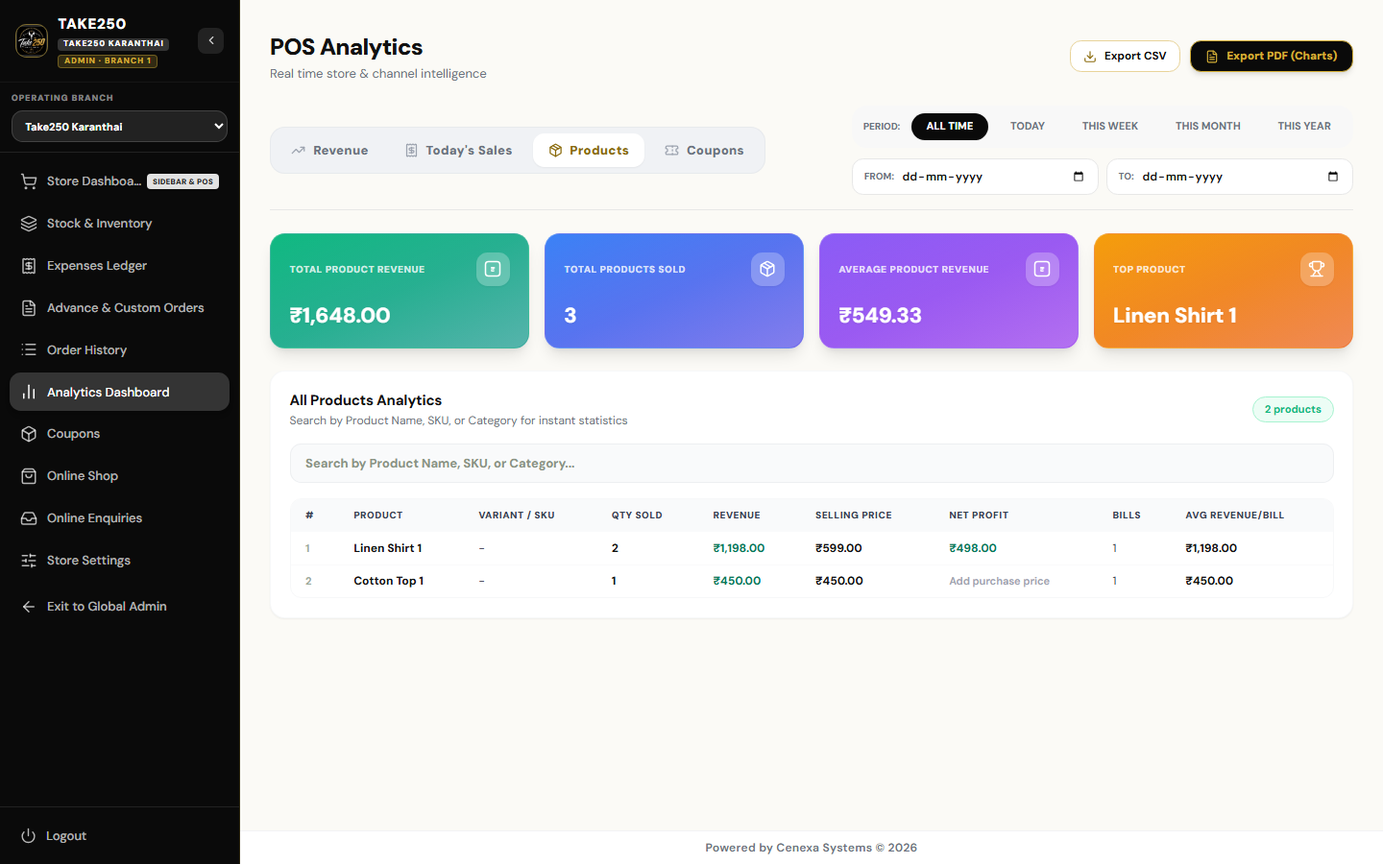
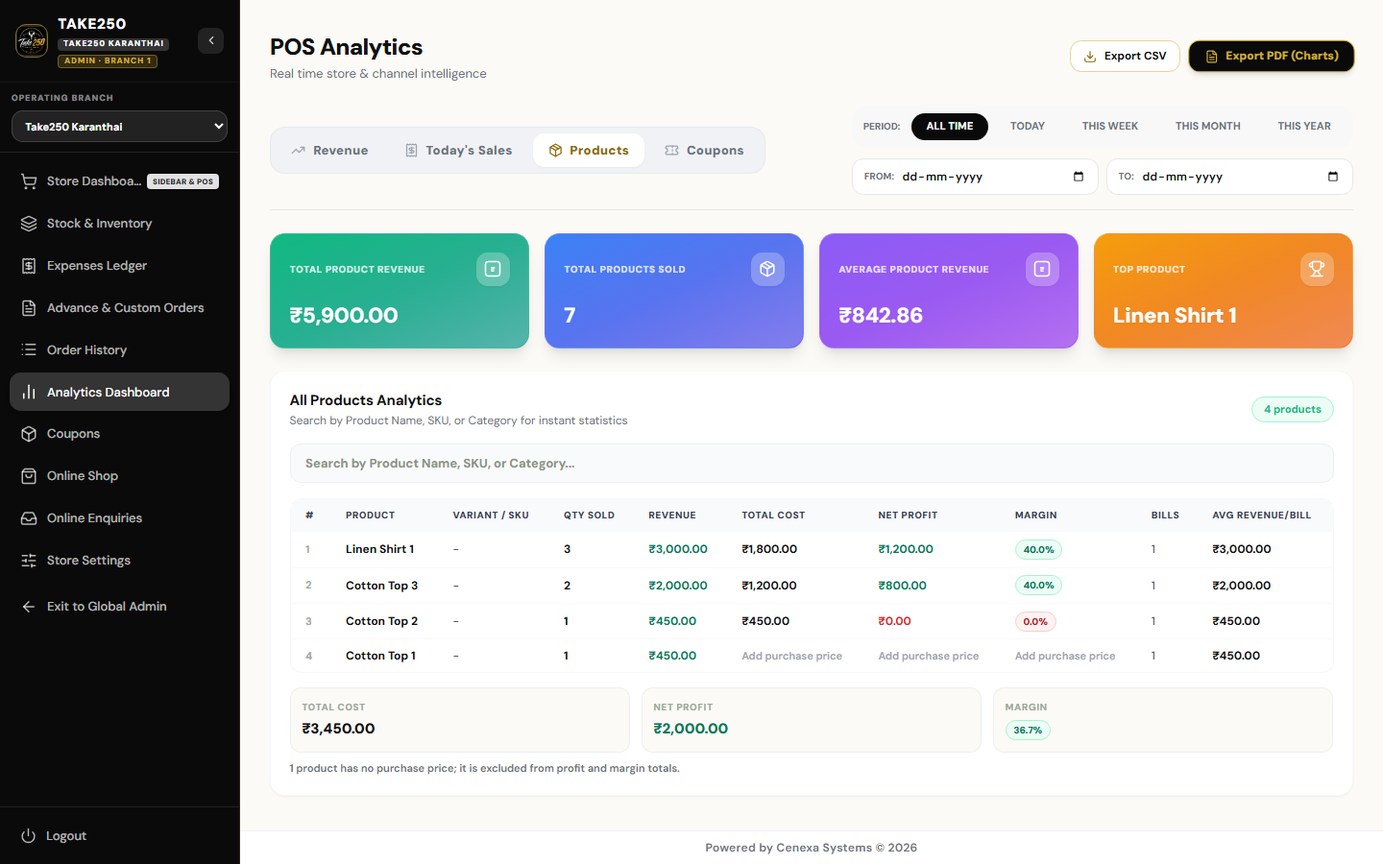
analytics: product cost, net profit and margin
- Analytics > Products: Product | Variant/SKU | Qty Sold | Revenue |
  Total Cost | Net Profit | Margin | Bills | Avg Revenue/Bill (Selling
  Price replaced by Total Cost), desktop table and mobile cards; Margin
  as a badge (green > 0, red <= 0, "-" without revenue).
- One calculation (src/lib/productProfit.ts) for the table, cards,
  totals, CSV and PDF: Total Cost = purchase price x units sold net of
  returns (per size line: the size's purchase price, else the
  product's); Net Profit = Revenue - Total Cost; Margin one decimal.
- No purchase price (null / 0, or any sold unit without one): "Add
  purchase price" for Total Cost, Net Profit and Margin; never revenue as
  profit or 0 as cost; left out of the totals with the note.
- Totals under the table; CSV gets Total Cost / Net Profit / Margin,
  totals and the note; the PDF product table gets Profit / Margin and the
  totals line.
- Cost on bill lines (unit_cost) is now Admin only (was Admin + Manager).
- Tests: 600 / 1000 / 3 -> 1800 / 1200 / 40.0%, missing and partly priced
  products, 0% when purchase = selling price, size cost over product
  cost, net of a real return, totals and note, CSV, roles.

diff --git a/src/pages/Dashboard.tsx b/src/pages/Dashboard.tsx
@@ -79,6 +79,7 @@ import { useNavigationStore } from '../store/navigationStore'
 import { useHardwareBarcodeScanner } from '../hooks/useHardwareBarcodeScanner'
 import { BarcodeRedirectDialog } from '../components/pos/BarcodeRedirectDialog'
 import { exportAnalyticsToCSV, exportAnalyticsToPDF } from '../services/analyticsExport'
+import { ADD_PURCHASE_PRICE, formatMargin, missingCostNote, productProfit, profitTotals } from '../lib/productProfit'
 import { BRAND_EN, BRAND_LOGO, BRAND_ICON } from '../lib/brand'
 import { branchName, branchShortLabel, posAccent, useBranchLogo } from '../lib/branchTheme'
 import { getPeriodRange, toLocalDateKey } from '../lib/dateRanges'
@@ -112,17 +113,12 @@ type DashboardOrder = {
   paid_by_mode?: Record<string, number>; refunds_by_mode?: Record<string, number>
 }
 type DashboardOrderItem = { order_id: string; product_name: string; category?: string; quantity: number; line_total: number; is_manual?: boolean | null; unit_cost?: number | null }
-/** Product-wise net profit: revenue - purchase price x units sold. No purchase price -> "Add purchase price";
- *  some sales without one -> the profit of the priced part, marked. Bills keep no cost snapshot: the current price is used. */
-function ProductProfit({ p }: { p: { qty: number; revenue: number; cost: number; costedQty: number; costedRevenue: number } }) {
-  if (p.costedQty <= 0) return <span className="text-[11px] font-semibold text-[#9CA3AF]" title="Set a purchase price in Stock & Inventory to see the profit">Add purchase price</span>
-  const profit = Math.round((p.costedRevenue - p.cost) * 100) / 100
-  const partial = p.costedQty < p.qty
-  return (
-    <span className={`font-bold ${profit >= 0 ? 'text-emerald-700' : 'text-red-600'}`} title={partial ? `Only ${Math.round(p.costedQty)} of ${Math.round(p.qty)} sold have a purchase price` : undefined}>
-      {formatCurrency(profit)}{partial ? ' *' : ''}
-    </span>
-  )
+/** Analytics > Products: "Add purchase price" (muted) where a product has no purchase price, for Total Cost, Net Profit and Margin. */
+const MissingCost = () => <span className="text-[11px] font-semibold text-[#9CA3AF]" title="Set a purchase price in Stock & Inventory to see cost, profit and margin" data-testid="product-missing-cost">{ADD_PURCHASE_PRICE}</span>
+/** Margin badge in the existing badge style: green when positive, red when zero or negative, "-" without revenue. */
+function MarginBadge({ margin }: { margin: number | null }) {
+  if (margin === null) return <span className="text-[#9CA3AF]">-</span>
+  return <span className={`inline-block rounded-full border px-2 py-0.5 text-[10px] font-black ${margin > 0 ? 'bg-emerald-50 text-emerald-700 border-emerald-200' : 'bg-red-50 text-red-700 border-red-200'}`} data-testid="product-margin-badge">{formatMargin(margin)}</span>
 }
 
 /** Order History discount cell: one amount for a coupon-only bill (as before); coupon and manual on their own lines
@@ -740,7 +736,7 @@ export default function Dashboard() {
         })))
 
     // product-wise profit: cost = purchase price x units sold, over the lines whose product has a purchase price
-    const productMap    = new Map<string, { name: string; variant: string; qty: number; revenue: number; billCount: number; cost: number; costedQty: number; costedRevenue: number }>()
+    const productMap    = new Map<string, { name: string; variant: string; qty: number; revenue: number; billCount: number; cost: number; costedQty: number }>()
     const productOrders = new Map<string, Set<string>>()
     const categoryMap   = new Map<string, { name: string; qty: number; revenue: number }>()
     const prodCatLookup = new Map(products.map(p => [String(p.name || '').trim().toLowerCase(), p.category || 'Uncategorized']))
@@ -759,9 +755,10 @@ export default function Dashboard() {
       const mainName   = dashIdx > 0 ? rawKey.slice(0, dashIdx) : rawKey
       const variantName = dashIdx > 0 ? rawKey.slice(dashIdx + 3) : ''
 
-      const pc = productMap.get(rawKey) || { name: mainName, variant: variantName, qty: 0, revenue: 0, billCount: 0, cost: 0, costedQty: 0, costedRevenue: 0 }
+      const pc = productMap.get(rawKey) || { name: mainName, variant: variantName, qty: 0, revenue: 0, billCount: 0, cost: 0, costedQty: 0 }
       pc.qty += qty; pc.revenue += rev
-      if (unitCost !== null && unitCost !== undefined) { pc.cost += unitCost * qty; pc.costedQty += qty; pc.costedRevenue += rev }
+      // per line: this line's size's purchase price (else the product's), on the units left after returns
+      if (unitCost !== null && unitCost !== undefined) { pc.cost += unitCost * qty; pc.costedQty += qty }
       productMap.set(rawKey, pc)
 
       if (!productOrders.has(rawKey)) productOrders.set(rawKey, new Set())
@@ -778,7 +775,9 @@ export default function Dashboard() {
       const p = productMap.get(key); if (p) { p.billCount = orderSet.size; productMap.set(key, p) }
     }
 
-    const topProducts   = Array.from(productMap.values()).sort((a, b) => b.qty - a.qty)
+    // cost / net profit / margin from the ONE shared calculation (table, cards, totals, CSV and PDF read these)
+    const topProducts   = Array.from(productMap.values()).map((p) => ({ ...p, ...productProfit(p) })).sort((a, b) => b.qty - a.qty)
+    const productTotals = profitTotals(topProducts)
     const topCategories = Array.from(categoryMap.values()).sort((a, b) => b.revenue - a.revenue)
     const bestProduct   = topProducts[0]?.name || 'No sales yet'
     const bestCategory  = topCategories[0]?.name || 'No sales yet'
@@ -977,6 +976,7 @@ export default function Dashboard() {
       topCategories,
       weeklySales,
       topProducts,
+      productTotals,
       waRequests,
       waPending,
       waContacted,
@@ -3047,12 +3047,16 @@ export default function Dashboard() {
                                 <p className="font-bold text-[#111111] mt-1">{Math.round(p.qty)}</p>
                               </div>
                               <div className="flex flex-col justify-between">
-                                <p className="text-[#9BAB9A] uppercase text-[11px] font-black leading-tight">Selling Price</p>
-                                <p className="font-bold text-[#111111] mt-1">{formatCurrency(p.qty > 0 ? p.revenue / p.qty : 0)}</p>
+                                <p className="text-[#9BAB9A] uppercase text-[11px] font-black leading-tight">Total Cost</p>
+                                <div className="font-bold text-[#111111] mt-1">{p.missing ? <MissingCost /> : formatCurrency(p.cost ?? 0)}</div>
                               </div>
                               <div className="flex flex-col justify-between">
                                 <p className="text-[#9BAB9A] uppercase text-[11px] font-black leading-tight">Net Profit</p>
-                                <ProductProfit p={p} />
+                                <div className="mt-1">{p.missing ? <MissingCost /> : <span className={`font-bold ${(p.profit ?? 0) > 0 ? 'text-emerald-700' : 'text-red-600'}`}>{formatCurrency(p.profit ?? 0)}</span>}</div>
+                              </div>
+                              <div className="flex flex-col justify-between">
+                                <p className="text-[#9BAB9A] uppercase text-[11px] font-black leading-tight">Margin</p>
+                                <div className="mt-1">{p.missing ? <MissingCost /> : <MarginBadge margin={p.margin} />}</div>
                               </div>
                               <div className="flex flex-col justify-between">
                                 <p className="text-[#9BAB9A] uppercase text-[11px] font-black leading-tight">Bills</p>
@@ -3067,7 +3071,7 @@ export default function Dashboard() {
                         ))}
                       </div>
                       <div className="hidden md:block overflow-x-auto rounded-xl border border-[#E5E7EB]/30">
-                        <table className="w-full min-w-[780px] text-left text-[12px]" data-testid="product-analytics-table">
+                        <table className="w-full min-w-[900px] text-left text-[12px]" data-testid="product-analytics-table">
                           <thead className="bg-[#F9FAFB] text-[10px] uppercase tracking-wider text-[#374151]">
                             <tr>
                               <th className="px-4 py-2.5 font-black">#</th>
@@ -3075,8 +3079,9 @@ export default function Dashboard() {
                               <th className="px-4 py-2.5 font-black">Variant / SKU</th>
                               <th className="px-4 py-2.5 font-black">Qty Sold</th>
                               <th className="px-4 py-2.5 font-black">Revenue</th>
-                              <th className="px-4 py-2.5 font-black" title="Average selling price per piece (revenue ÷ quantity sold)">Selling Price</th>
-                              <th className="px-4 py-2.5 font-black" title="Revenue minus purchase price × quantity sold">Net Profit</th>
+                              <th className="px-4 py-2.5 font-black" title="Purchase price × units sold (net of returns)">Total Cost</th>
+                              <th className="px-4 py-2.5 font-black" title="Revenue − Total Cost">Net Profit</th>
+                              <th className="px-4 py-2.5 font-black" title="Net Profit ÷ Revenue">Margin</th>
                               <th className="px-4 py-2.5 font-black">Bills</th>
                               <th className="px-4 py-2.5 font-black">Avg Revenue/Bill</th>
                             </tr>
@@ -3089,8 +3094,9 @@ export default function Dashboard() {
                                 <td className="px-4 py-2 text-[#374151]">{p.variant || '-'}</td>
                                 <td className="px-4 py-2 font-bold">{Math.round(p.qty)}</td>
                                 <td className="px-4 py-2 font-bold text-emerald-700">{formatCurrency(p.revenue)}</td>
-                                <td className="px-4 py-2 font-bold text-[#111111]" data-testid="product-selling-price">{formatCurrency(p.qty > 0 ? p.revenue / p.qty : 0)}</td>
-                                <td className="px-4 py-2" data-testid="product-net-profit"><ProductProfit p={p} /></td>
+                                <td className="px-4 py-2 font-bold text-[#111111]" data-testid="product-total-cost">{p.missing ? <MissingCost /> : formatCurrency(p.cost ?? 0)}</td>
+                                <td className="px-4 py-2" data-testid="product-net-profit">{p.missing ? <MissingCost /> : <span className={`font-bold ${(p.profit ?? 0) > 0 ? 'text-emerald-700' : 'text-red-600'}`}>{formatCurrency(p.profit ?? 0)}</span>}</td>
+                                <td className="px-4 py-2" data-testid="product-margin">{p.missing ? <MissingCost /> : <MarginBadge margin={p.margin} />}</td>
                                 <td className="px-4 py-2 text-[#374151]">{p.billCount}</td>
                                 <td className="px-4 py-2 font-bold text-[#111111]">{formatCurrency(p.billCount > 0 ? p.revenue / p.billCount : 0)}</td>
                               </tr>
@@ -3098,6 +3104,23 @@ export default function Dashboard() {
                           </tbody>
                         </table>
                       </div>
+                      <div className="mt-4 grid grid-cols-1 gap-3 sm:grid-cols-3" data-testid="product-profit-totals">
+                        <div className="rounded-xl border border-[#E5E7EB]/60 bg-[#FBFAF6] p-3">
+                          <p className="text-[10px] font-black uppercase tracking-wider text-[#9BAB9A]">Total Cost</p>
+                          <p className="mt-1 text-[15px] font-black text-[#111111]" data-testid="total-cost">{formatCurrency(analytics.productTotals.cost)}</p>
+                        </div>
+                        <div className="rounded-xl border border-[#E5E7EB]/60 bg-[#FBFAF6] p-3">
+                          <p className="text-[10px] font-black uppercase tracking-wider text-[#9BAB9A]">Net Profit</p>
+                          <p className={`mt-1 text-[15px] font-black ${analytics.productTotals.profit > 0 ? 'text-emerald-700' : 'text-red-600'}`} data-testid="total-profit">{formatCurrency(analytics.productTotals.profit)}</p>
+                        </div>
+                        <div className="rounded-xl border border-[#E5E7EB]/60 bg-[#FBFAF6] p-3">
+                          <p className="text-[10px] font-black uppercase tracking-wider text-[#9BAB9A]">Margin</p>
+                          <div className="mt-1" data-testid="total-margin"><MarginBadge margin={analytics.productTotals.margin} /></div>
+                        </div>
+                      </div>
+                      {analytics.productTotals.missingCount > 0 && (
+                        <p className="mt-2 text-[11px] font-semibold text-[#6B7280]" data-testid="missing-cost-note">{missingCostNote(analytics.productTotals.missingCount)}</p>
+                      )}
                       </>
                     ) : (
                       <p className="text-center text-[13px] text-[#374151] py-6">{productAnalyticsSearch ? 'No products match your search query.' : 'No product sales in selected period'}</p>

diff --git a/src/services/analyticsExport.ts b/src/services/analyticsExport.ts
@@ -3,6 +3,7 @@ import html2canvas from 'html2canvas'
 import { BRAND_EN, BRAND_ADDRESS, BRAND_PHONE_DISPLAY, THEME_PALETTE } from '../lib/brand'
 import { LOGO_BASE64 } from '../lib/logoBase64'
 import { formatCurrency } from '../lib/retail'
+import { ADD_PURCHASE_PRICE, formatMargin, missingCostNote, type ProfitTotals } from '../lib/productProfit'
 
 export interface AnalyticsExportData {
   totalCompletedRevenue: number
@@ -32,7 +33,9 @@ export interface AnalyticsExportData {
   todayHourlyTrend: Array<{ hour: string; key: string; revenue: number }>
   todayTopProducts: Array<{ name: string; qty: number; revenue: number }>
   todayBills?: Array<{ invoice_no?: string; id?: string; customer_name?: string; total: number; created_at: string; status: string; order_mode?: string }>
-  topProducts: Array<{ name: string; variant?: string; qty: number; revenue: number; billCount: number }>
+  /** cost / profit / margin from src/lib/productProfit.ts (missing = no purchase price: shown as "Add purchase price") */
+  topProducts: Array<{ name: string; variant?: string; qty: number; revenue: number; billCount: number; cost?: number | null; profit?: number | null; margin?: number | null; missing?: boolean }>
+  productTotals?: ProfitTotals
   topCategories: Array<{ name: string; qty: number; revenue: number }>
   categoryDist?: Array<{ name: string; value: number }>
   topCoupons: Array<{ code: string; usage: number; discounts: number }>
@@ -135,17 +138,28 @@ export function exportAnalyticsToCSV({ data, activeTab, datePreset, dateFrom, da
     })
   } else if (activeTab === 'products') {
     rows.push(['--- PRODUCT PERFORMANCE BREAKDOWN ---'])
-    rows.push(['Rank', 'Product Name', 'Variant', 'Units Sold', 'Revenue (INR)', 'Bill Count'])
+    rows.push(['Rank', 'Product Name', 'Variant', 'Units Sold', 'Revenue (INR)', 'Total Cost (INR)', 'Net Profit (INR)', 'Margin (%)', 'Bill Count', 'Avg Revenue/Bill (INR)'])
     data.topProducts.forEach((item, index) => {
+      const missing = item.missing === true
       rows.push([
         String(index + 1),
         item.name,
         item.variant || '-',
         String(Math.round(item.qty)),
         item.revenue.toFixed(2),
+        missing ? ADD_PURCHASE_PRICE : (item.cost ?? 0).toFixed(2),
+        missing ? ADD_PURCHASE_PRICE : (item.profit ?? 0).toFixed(2),
+        missing ? ADD_PURCHASE_PRICE : (item.margin === null || item.margin === undefined ? '-' : item.margin.toFixed(1)),
         String(item.billCount),
+        (item.billCount > 0 ? item.revenue / item.billCount : 0).toFixed(2),
       ])
     })
+    if (data.productTotals) {
+      const t = data.productTotals
+      rows.push([])
+      rows.push(['Totals (products with a purchase price)', '', '', '', t.revenue.toFixed(2), t.cost.toFixed(2), t.profit.toFixed(2), t.margin === null ? '-' : t.margin.toFixed(1)])
+      if (t.missingCount > 0) rows.push([missingCostNote(t.missingCount)])
+    }
     rows.push([])
 
     rows.push(['--- CATEGORY PERFORMANCE ---'])
@@ -394,6 +408,8 @@ export async function exportAnalyticsToPDF({
                   <th style="padding: 4px 0;">Product</th>
                   <th style="padding: 4px 0; text-align: right;">Qty</th>
                   <th style="padding: 4px 0; text-align: right;">Revenue</th>
+                  <th style="padding: 4px 0; text-align: right;">Profit</th>
+                  <th style="padding: 4px 0; text-align: right;">Margin</th>
                 </tr>
               </thead>
               <tbody>
@@ -406,12 +422,15 @@ export async function exportAnalyticsToPDF({
                     <td style="padding: 5px 0; font-weight: 700; color: #111; max-width: 140px; overflow: hidden; text-overflow: ellipsis; white-space: nowrap;">${p.name}</td>
                     <td style="padding: 5px 0; text-align: right; font-weight: 800; color: #4B5563;">${Math.round(p.qty)} pcs</td>
                     <td style="padding: 5px 0; text-align: right; font-weight: 900; color: ${THEME_PALETTE.primary};">${formatCurrency(p.revenue)}</td>
+                    <td style="padding: 5px 0; text-align: right; font-weight: 800; color: ${p.missing ? '#9CA3AF' : (p.profit ?? 0) > 0 ? '#047857' : '#B91C1C'};">${p.missing ? ADD_PURCHASE_PRICE : formatCurrency(p.profit ?? 0)}</td>
+                    <td style="padding: 5px 0; text-align: right; font-weight: 800; color: ${p.missing ? '#9CA3AF' : (p.margin ?? 0) > 0 ? '#047857' : '#B91C1C'};">${p.missing ? ADD_PURCHASE_PRICE : formatMargin(p.margin ?? null)}</td>
                   </tr>
                 `
                   )
                   .join('')}
               </tbody>
             </table>
+            ${data.productTotals ? `<p style="margin: 8px 0 0 0; font-size: 8px; font-weight: 800; color: #374151;">Net profit ${formatCurrency(data.productTotals.profit)} · Margin ${formatMargin(data.productTotals.margin)} · Cost ${formatCurrency(data.productTotals.cost)}</p>${data.productTotals.missingCount > 0 ? `<p style="margin: 2px 0 0 0; font-size: 7.5px; color: #6B7280;">${missingCostNote(data.productTotals.missingCount)}</p>` : ''}` : ''}
           </div>
         </div>
 

diff --git a/scripts/lib/shopSuite.ts b/scripts/lib/shopSuite.ts
@@ -3,6 +3,7 @@
 import type { Actor, ReturnsCtx } from './returnsSuite'
 import { csvCell } from '../../src/lib/csvCell'
 import { shopInviteText, shopLink, whatsappShareUrl, whatsappToUrl } from '../../src/lib/shopLink'
+import { formatMargin, missingCostNote, productProfit, profitTotals } from '../../src/lib/productProfit'
 
 export type ShopCtx = Omit<ReturnsCtx, 'concurrent'>
 type CallOpts = { cookie?: string; body?: unknown; query?: Record<string, string>; ip?: string }
@@ -220,8 +221,16 @@ export async function shopSuite(c: ShopCtx) {
       return ((r.body?.orders ?? []) as any[]).find((o) => o.id === ordId)?.order_items?.[0]
     }
     const ai = await itemsFor('admin'), mi = await itemsFor(mgr), si = await itemsFor(staff)
-    check(num(ai?.unit_cost) === 200 && num(mi?.unit_cost) === 200, `${L} Admin and Manager get the line's purchase price (unit_cost 200) for profit`, JSON.stringify({ a: ai?.unit_cost, m: mi?.unit_cost }))
-    check(!!si && !('unit_cost' in si), `${L} Staff never receive a purchase price on bill lines`)
+    check(num(ai?.unit_cost) === 200, `${L} Admin gets the line's purchase price (unit_cost 200) for product profit`, JSON.stringify({ a: ai?.unit_cost }))
+    check(!!mi && !('unit_cost' in mi) && !!si && !('unit_cost' in si), `${L} Manager and Staff never receive a purchase price on bill lines (Admin only)`)
+    // a size's own purchase price wins over the product's (cost is per size line)
+    const P3v = (await one(`SELECT id FROM product_variants WHERE product_id = $1 AND branch_id = $2 ORDER BY created_at LIMIT 1`, [P3, b]))?.id
+    if (P3v) {
+      await q(`UPDATE products SET purchase_price = 500 WHERE id = $1`, [P3]); await q(`UPDATE product_variants SET purchase_price = 700 WHERE id = $1`, [P3v])
+      await q(`INSERT INTO order_items (branch_id, order_id, product_id, variant_id, product_name, name, quantity, unit_price, line_total) VALUES ($1, $2, $3, $4, 'Shop Saree', 'Shop Saree', 1, 1000, 1000)`, [b, ordId, P3, P3v])
+      const vi = (((await call('GET', '/api/orders', { cookie: cookies.admin, query: { include_items: '1', limit: '50', branch_id: b } })).body?.orders ?? []) as any[]).find((o) => o.id === ordId)?.order_items?.find((i: any) => i.variant_id === P3v)
+      check(num(vi?.unit_cost) === 700, `${L} a size line costs at the size's purchase price (700), not the product's (500)`, JSON.stringify(vi?.unit_cost))
+    }
     // a product whose purchase price was never entered (stored as 0): no cost, so no made-up profit
     const P0 = await mk(`Shop NoCost ${n}`, {})
     await q(`UPDATE products SET purchase_price = 0 WHERE id = $1`, [P0])
@@ -243,6 +252,16 @@ export async function shopSuite(c: ShopCtx) {
       const inv = whatsappToUrl('9811100077', shopInviteText(links[0], 'Meena'))
       check(inv === `https://wa.me/919811100077?text=${encodeURIComponent('Hi Meena, you can now order from TAKE250 online: https://take250.vercel.app/shop')}` && shopInviteText(links[0]).startsWith('Hi, you can'),
         'shop: "Send to a customer" opens that customer\'s WhatsApp chat with the /shop link typed in', inv)
+      // product cost / net profit / margin: the one shared calculation (table, cards, totals, CSV, PDF)
+      const pp = productProfit({ qty: 3, revenue: 3000, cost: 1800, costedQty: 3 })
+      check(pp.cost === 1800 && pp.profit === 1200 && pp.margin === 40 && formatMargin(pp.margin) === '40.0%' && !pp.missing, 'profit: purchase 600, selling 1000, qty 3 -> cost 1800, profit 1200, margin 40.0%', JSON.stringify(pp))
+      const none = productProfit({ qty: 2, revenue: 900, cost: 0, costedQty: 0 }), part = productProfit({ qty: 3, revenue: 3000, cost: 600, costedQty: 1 })
+      check(none.missing && none.cost === null && none.profit === null && none.margin === null && part.missing, 'profit: no purchase price (or only some units priced) -> no cost, no profit, no margin (never revenue as profit, never 0 as cost)')
+      const eq = productProfit({ qty: 1, revenue: 450, cost: 450, costedQty: 1 })
+      check(!eq.missing && eq.profit === 0 && eq.margin === 0 && formatMargin(eq.margin) === '0.0%' && formatMargin(null) === '-', 'profit: purchase price = selling price -> 0.0%; no revenue -> "-"')
+      const tt = profitTotals([{ revenue: 3000, ...pp }, { revenue: 900, ...none }, { revenue: 450, ...eq }])
+      check(tt.revenue === 3450 && tt.cost === 2250 && tt.profit === 1200 && tt.margin === 34.8 && tt.missingCount === 1 && missingCostNote(2) === '2 products have no purchase price; they are excluded from profit and margin totals.',
+        'profit totals leave out products without a purchase price, and say how many', JSON.stringify(tt))
       const wa = whatsappShareUrl(links[0])
       check(wa === 'https://wa.me/?text=https%3A%2F%2Ftake250.vercel.app%2Fshop' && decodeURIComponent(new URL(wa).searchParams.get('text') || '').endsWith('/shop'),
         'shop: the WhatsApp share link carries the encoded /shop link', wa)

diff --git a/src/lib/productProfit.ts b/src/lib/productProfit.ts
@@ -1,0 +1,51 @@
+// Product-wise cost, net profit and margin: ONE calculation for the Analytics table, its mobile cards, the totals,
+// the CSV and the PDF (src/pages/Dashboard.tsx, src/services/analyticsExport.ts).
+//
+// Input per product (or product + size) line, net of returns (returned units leave qty, revenue and cost on the
+// ORIGINAL sale date): qty and revenue sold, `cost` = sum of purchase price x units over the units whose line has a
+// purchase price, `costedQty` = those units. The purchase price is the line's size's, else the product's; 0 / empty
+// means "never entered" and arrives as no cost. A product with ANY sold unit lacking a purchase price is "missing":
+// no cost, profit or margin is shown for it (never revenue as profit, never 0 as cost) and it is left out of totals.
+
+export type ProductCostInput = { qty: number; revenue: number; cost: number; costedQty: number }
+export type ProductProfit = { missing: boolean; cost: number | null; profit: number | null; margin: number | null }
+export type ProfitTotals = { revenue: number; cost: number; profit: number; margin: number | null; missingCount: number; pricedCount: number }
+
+const r2 = (v: number) => Math.round(v * 100) / 100
+const r1 = (v: number) => Math.round(v * 10) / 10
+
+export function productProfit(p: ProductCostInput): ProductProfit {
+  if (p.qty <= 0) {
+    // everything sold was returned: nothing sold, nothing to cost
+    return { missing: false, cost: 0, profit: r2(p.revenue), margin: p.revenue > 0 ? 100 : null }
+  }
+  if (p.costedQty <= 0 || p.costedQty < p.qty - 1e-9) return { missing: true, cost: null, profit: null, margin: null }
+  const cost = r2(p.cost)
+  const profit = r2(p.revenue - cost)
+  return { missing: false, cost, profit, margin: p.revenue > 0 ? r1((profit / p.revenue) * 100) : null }
+}
+
+/** Totals over the products that have a purchase price (rows already through productProfit); the rest are counted, not added. */
+export function profitTotals(rows: Array<{ revenue: number } & ProductProfit>): ProfitTotals {
+  let revenue = 0, cost = 0, missingCount = 0, pricedCount = 0
+  for (const row of rows) {
+    if (row.missing) { missingCount++; continue }
+    pricedCount++
+    revenue += row.revenue
+    cost += row.cost ?? 0
+  }
+  revenue = r2(revenue); cost = r2(cost)
+  const profit = r2(revenue - cost)
+  return { revenue, cost, profit, margin: revenue > 0 ? r1((profit / revenue) * 100) : null, missingCount, pricedCount }
+}
+
+/** "40.0%", or "-" when there is no revenue. */
+export const formatMargin = (margin: number | null): string => (margin === null ? '-' : `${margin.toFixed(1)}%`)
+
+/** The note under the table / in the exports, or '' when every product has a purchase price. */
+export const missingCostNote = (n: number): string =>
+  n <= 0 ? '' : n === 1
+    ? '1 product has no purchase price; it is excluded from profit and margin totals.'
+    : `${n} products have no purchase price; they are excluded from profit and margin totals.`
+
+export const ADD_PURCHASE_PRICE = 'Add purchase price'

diff --git a/server/routes/sales.ts b/server/routes/sales.ts
@@ -240,8 +240,8 @@ export const salesRoutes = [
       const where = conds.join(' AND ')
       // product-wise profit (Analytics): each line's CURRENT purchase price (the size's, else the product's). Bills keep no
       // cost snapshot, so a purchase price changed later changes past profit too. 0 = never entered (products default to 0)
-      // -> null, so the screen asks for a purchase price instead of showing the whole revenue as profit. Never sent to Staff.
-      const unitCost = session?.role === 'staff' ? '' : ` || jsonb_build_object('unit_cost', COALESCE(
+      // -> null, so the screen asks for a purchase price instead of showing the whole revenue as profit. Admin only.
+      const unitCost = session?.role !== 'admin' ? '' : ` || jsonb_build_object('unit_cost', COALESCE(
           (SELECT NULLIF(v.purchase_price, 0) FROM public.product_variants v WHERE v.id = i.variant_id AND v.branch_id = i.branch_id),
           (SELECT NULLIF(pr.purchase_price, 0) FROM public.products pr WHERE pr.id = i.product_id AND pr.branch_id = i.branch_id)))`
       const items = query.include_items

diff --git a/docs/ROLE_MATRIX.md b/docs/ROLE_MATRIX.md
@@ -101,7 +101,7 @@ Manager row, final (everything else is unchanged):
 - **Customer data stays per branch.** No customer table, no copied rows, no cross-branch foreign keys. A customer is a phone number on a bill or advance order of the branch.
 - **POS lookup** (`POST /api/customers/lookup`, Staff / Manager / Admin, branch from the token, Admin from the switcher, the client never sends a branch): returns ONLY `{ exists_in_this_branch, name, coupons, other_branches }`. `coupons` = this branch's sent coupons for that phone with status (Active / Used / Expired / Limit reached, computed in SQL). `other_branches` = display names of other branches where the number appears, from the one SQL function `customer_other_branches()`; no name, bills, amounts, coupons or counts from those branches. The phone goes in the body (never the URL) and is never logged. Partial / malformed numbers get a 400 with no data. Rate limit: 60 per user (role + branch) and 120 per IP per 5 minutes, database-backed.
 - **POS phone suggestions** (`POST /api/customers/suggest`, Staff / Manager / Admin, same branch rule as the lookup): the digits typed so far go in the body (never the URL, never logged); from 4 digits, up to 8 of THIS branch's customers whose number starts with them (bills, advance orders, online requests), as `{ phone, name }` only. Fewer than 4 digits: an empty list. Rate limit: 300 per user and 600 per IP per 5 minutes, database-backed.
-- **Product-wise profit** (Admin Analytics > Products): `GET /api/orders?include_items=1` adds `unit_cost` (the line's CURRENT purchase price: the size's, else the product's; 0 = never entered = null) to each bill line for Admin and Manager only; Staff never receive it (as in the catalogue). Net profit = revenue - unit_cost x units sold; bills keep no cost snapshot.
+- **Product cost, net profit and margin** (Admin Analytics > Products, its CSV and PDF; one calculation in `src/lib/productProfit.ts`): `GET /api/orders?include_items=1` adds `unit_cost` (the line's CURRENT purchase price: the size's, else the product's; 0 = never entered = null) to each bill line for the **Admin only**; Manager and Staff never receive it. Total Cost = unit_cost x units sold net of returns (on the original sale date); Net Profit = Revenue - Total Cost; Margin = Net Profit / Revenue (one decimal, "-" without revenue). A product with any sold unit lacking a purchase price shows "Add purchase price" for all three and is left out of the totals (with a note). Bills keep no cost snapshot.
 - **Sending coupons: Admin only** (`POST /api/coupons/:id/sends`, 403 for Manager and Staff), for the branch selected in the switcher. The PDF is made in the browser and shared as a file only; the send is recorded only after the share / download succeeded.
 - **Customer-specific coupons:** only when Admin turns the toggle on in the send modal. Such a coupon is redeemable only on bills whose phone matches one of its customer-specific sends, once per phone; enforced in SQL (`assert_coupon_redeemable`, called by `complete_pos_sale_with_inventory` and the `orders` insert trigger). Coupons never sent, or sent with the toggle off, behave exactly as before.
 - **Coupons stay branch-owned:** another branch's coupon is never visible or valid here (the sale function rejects an unknown code).
